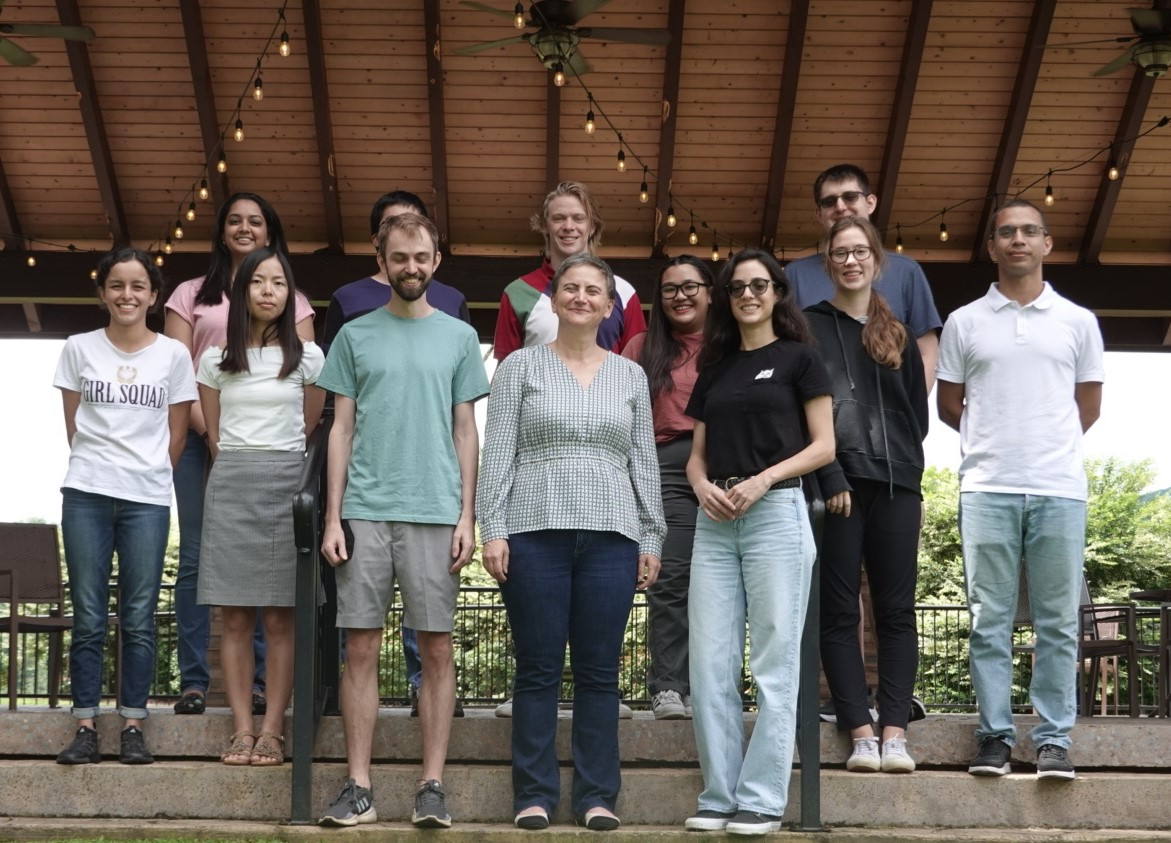
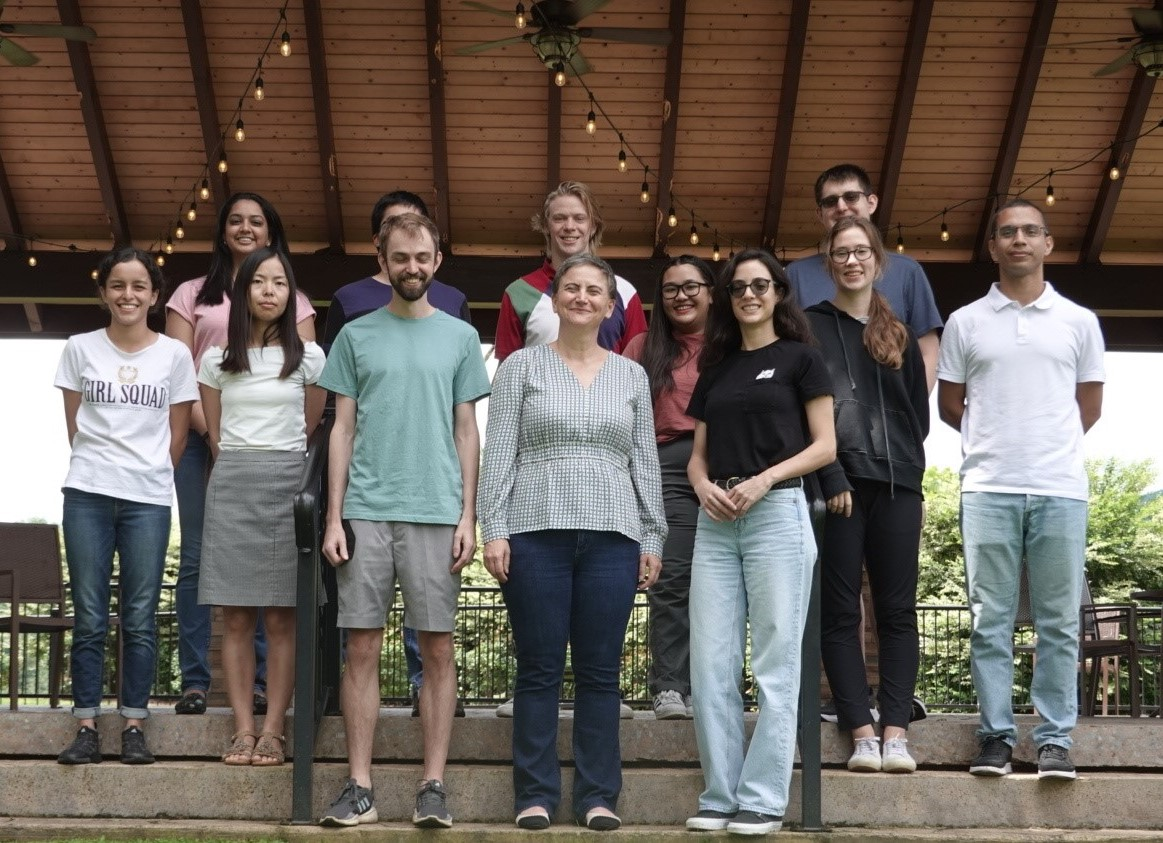
resize Naweiluo's picture to standard size

diff --git a/gallery.html b/gallery.html
@@ -138,11 +138,18 @@ http://themeforest.net/user/owwwlab/
            <div class="container">
               <h1 align="center">Welcome to the Global Computing Lab Gallery</h1>	
                 <div class="container">
-		<h3 align="center">Global Computing Lab at UTK (2021)</h3>
+		<h3 align="center">Global Computing Lab at UTK (2022)</h3>
                 <img src="assets/gcl-images/gcl_gatlinburg_2022_0.JPG" align="center" width=515 border=0 onmouseover="this.src='assets/gcl-images/gcl_gatlinburg_2022_1.JPG';" ; onmouseout="this.src='assets/gcl-images/gcl_gatlinburg_2022_0.JPG';"> </img>
-   		<h4 align="center"> <font face="Courier New"  size="2">Jakob, Dr. Taufer, Silvina, Camila, Naweiluo, Georgia, Mark, Ria, Nigel, Dominic, Vanessa, Ian </font> </h4>
+   		<h4 align="center"> <font face="Courier New"  size="2"> Jakob, Dr. Taufer, Silvina, Camila, Naweiluo, Georgia, Mark, Ria, Nigel, Dominic, Vanessa, Ian </font> </h4>
                 </p>
               </div>
+
+           <div class="container">
+            <h3 align="center">Global Computing Lab at UTK (2021)</h3>
+            <img src="assets/gcl-images/gcl_Knoxville_2021.jpg" align="center" width=515 border=0 onmouseover="this.src='assets/gcl-images/gcl_Knoxville_covid_2021.jpg';" ; onmouseout="this.src='assets/gcl-images/gcl_Knoxville_2021.jpg';"> </img>
+            <h4 align="center"> <font face="Courier New"  size="2">Kae, Paula, Silvina, Dr. Taufer, Ross, Brandan, Ariel, Jacob, Nigel, Ian, Leobardo, Dominic, Ria </font> </h4>
+            </div>
+
                 <div class="container">
 		<h3 align="center"> <a href="BigDataAnalytics2020.html" title="DataMining" target="_blank"><span>Poster Session for CS526 Data Mining (Spring 2020) </a> </h3>
                 <a href="BigDataAnalytics2020.html"><img src="assets/img/gallery/BigData_2020/Pictures/collage_2020.jpg" align="center" width="515" border=0 align="center"></a>
